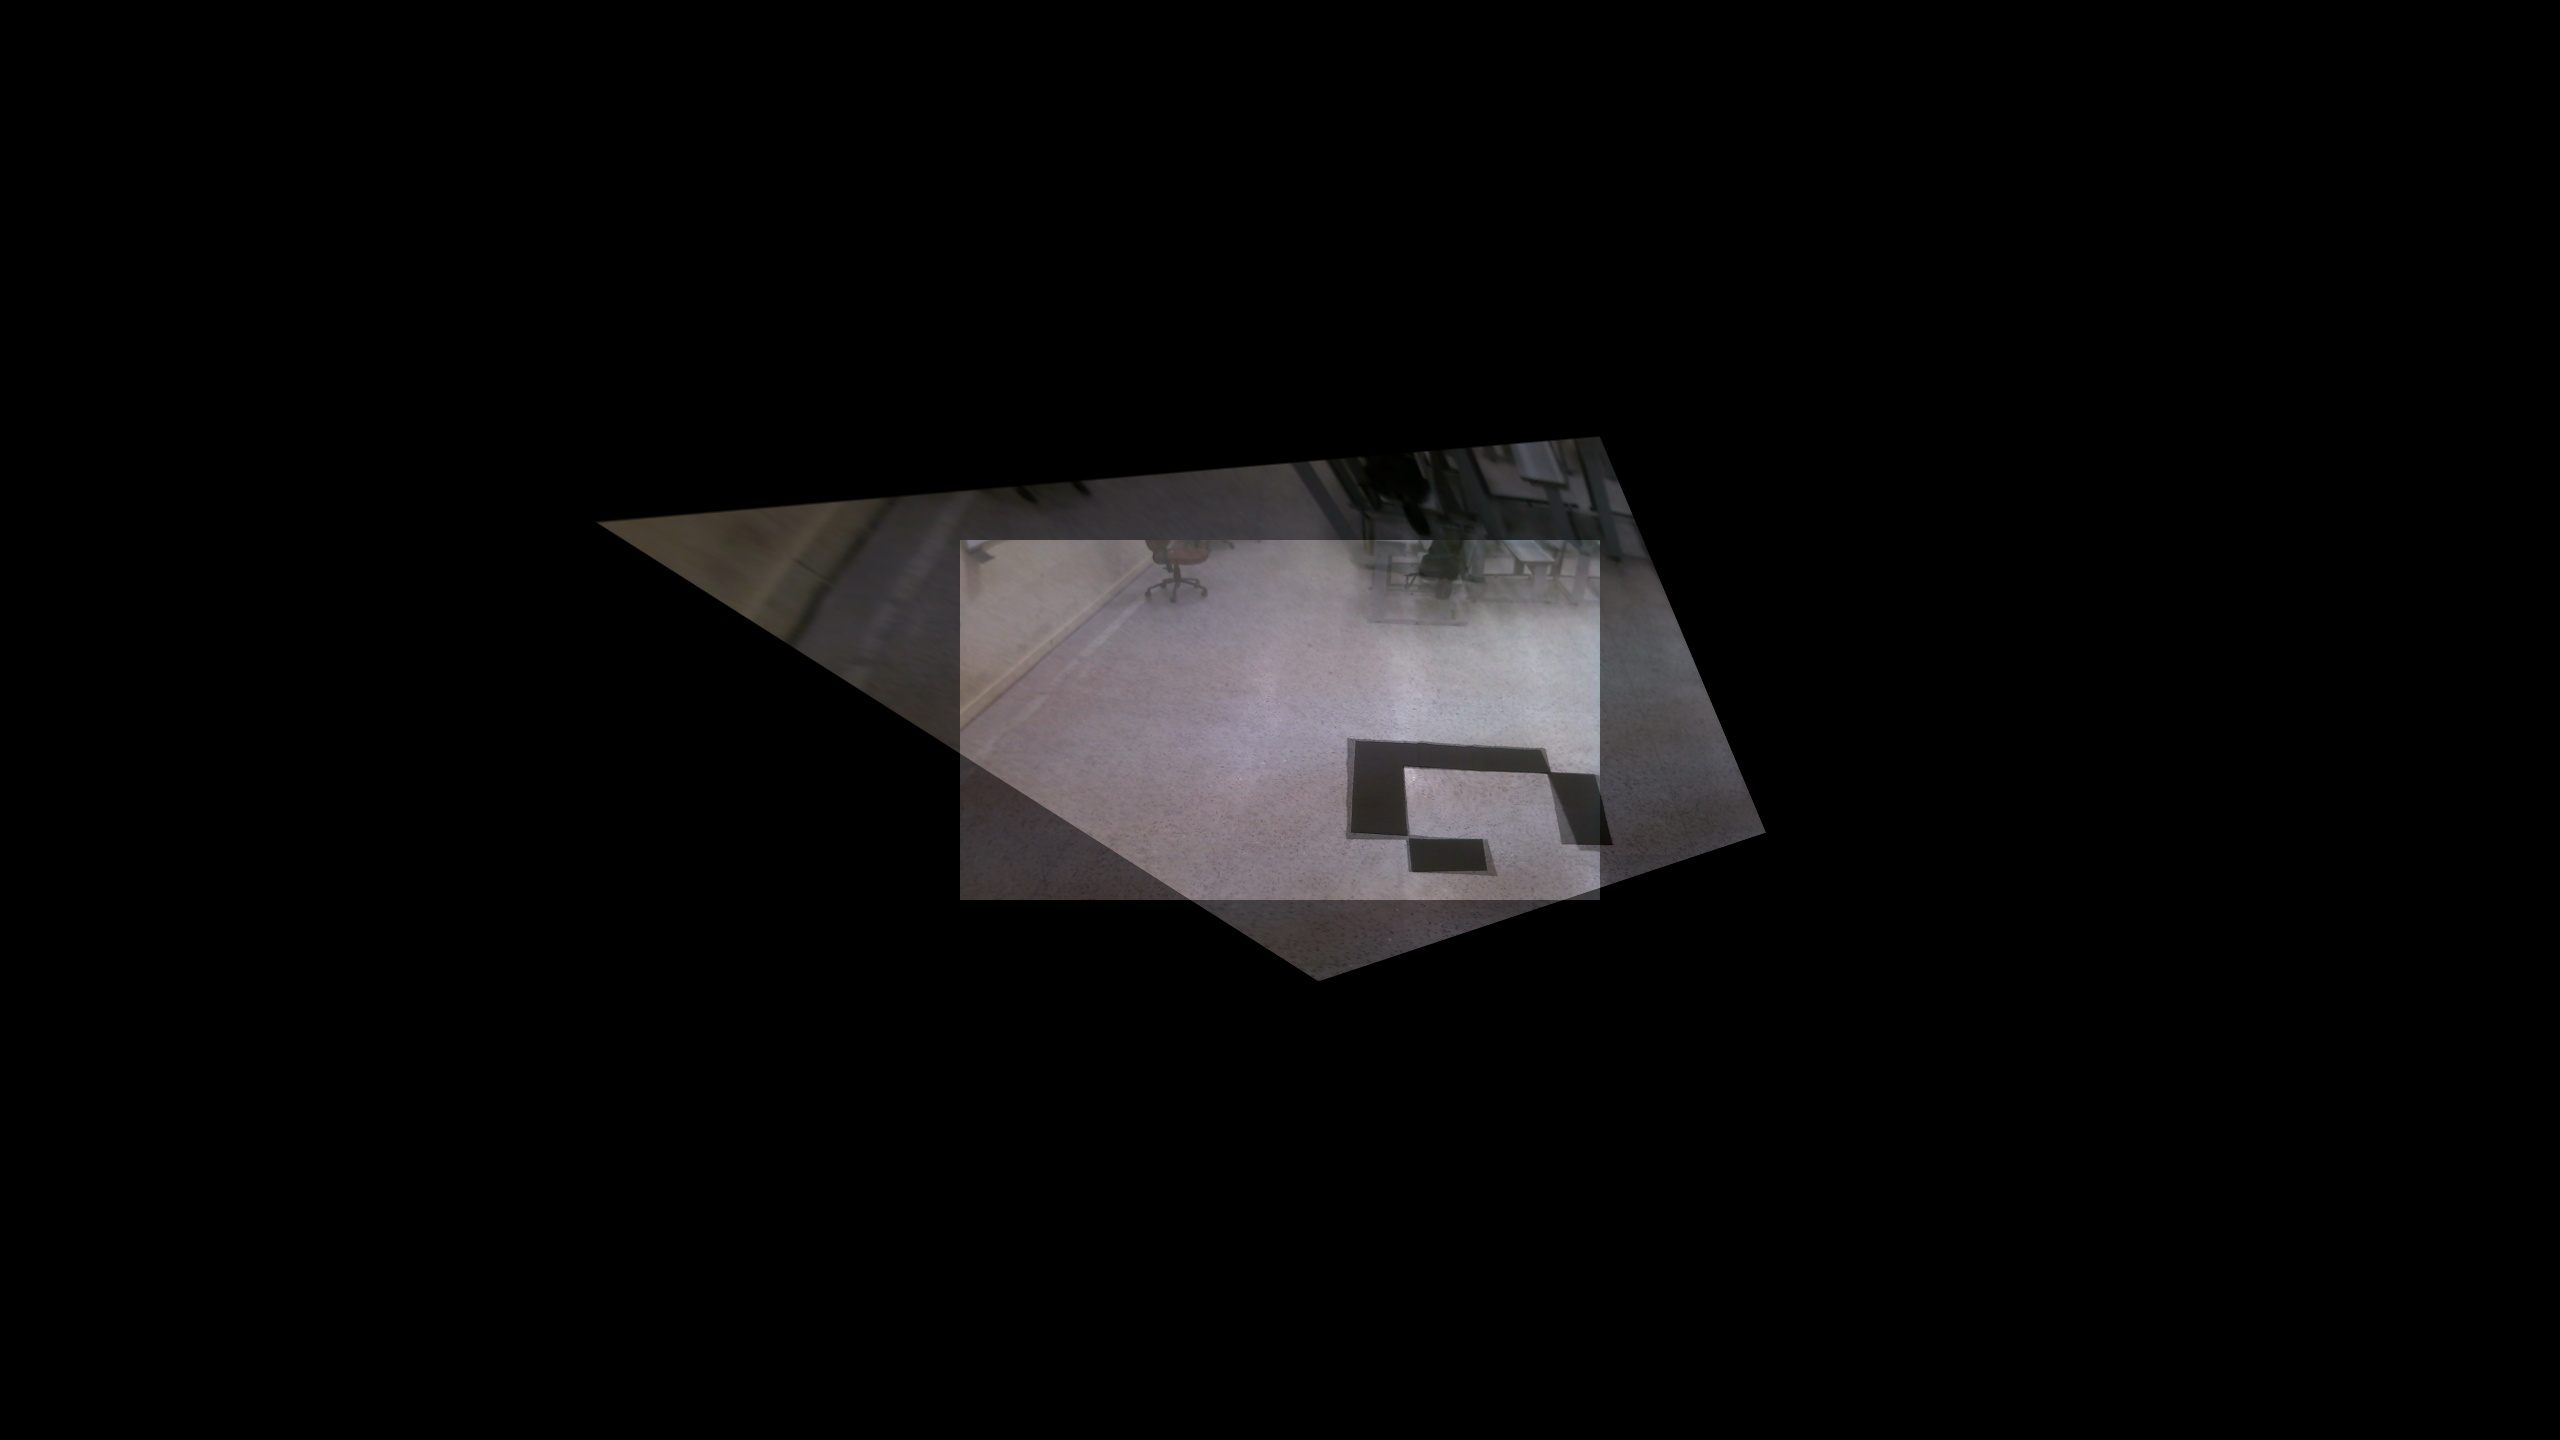
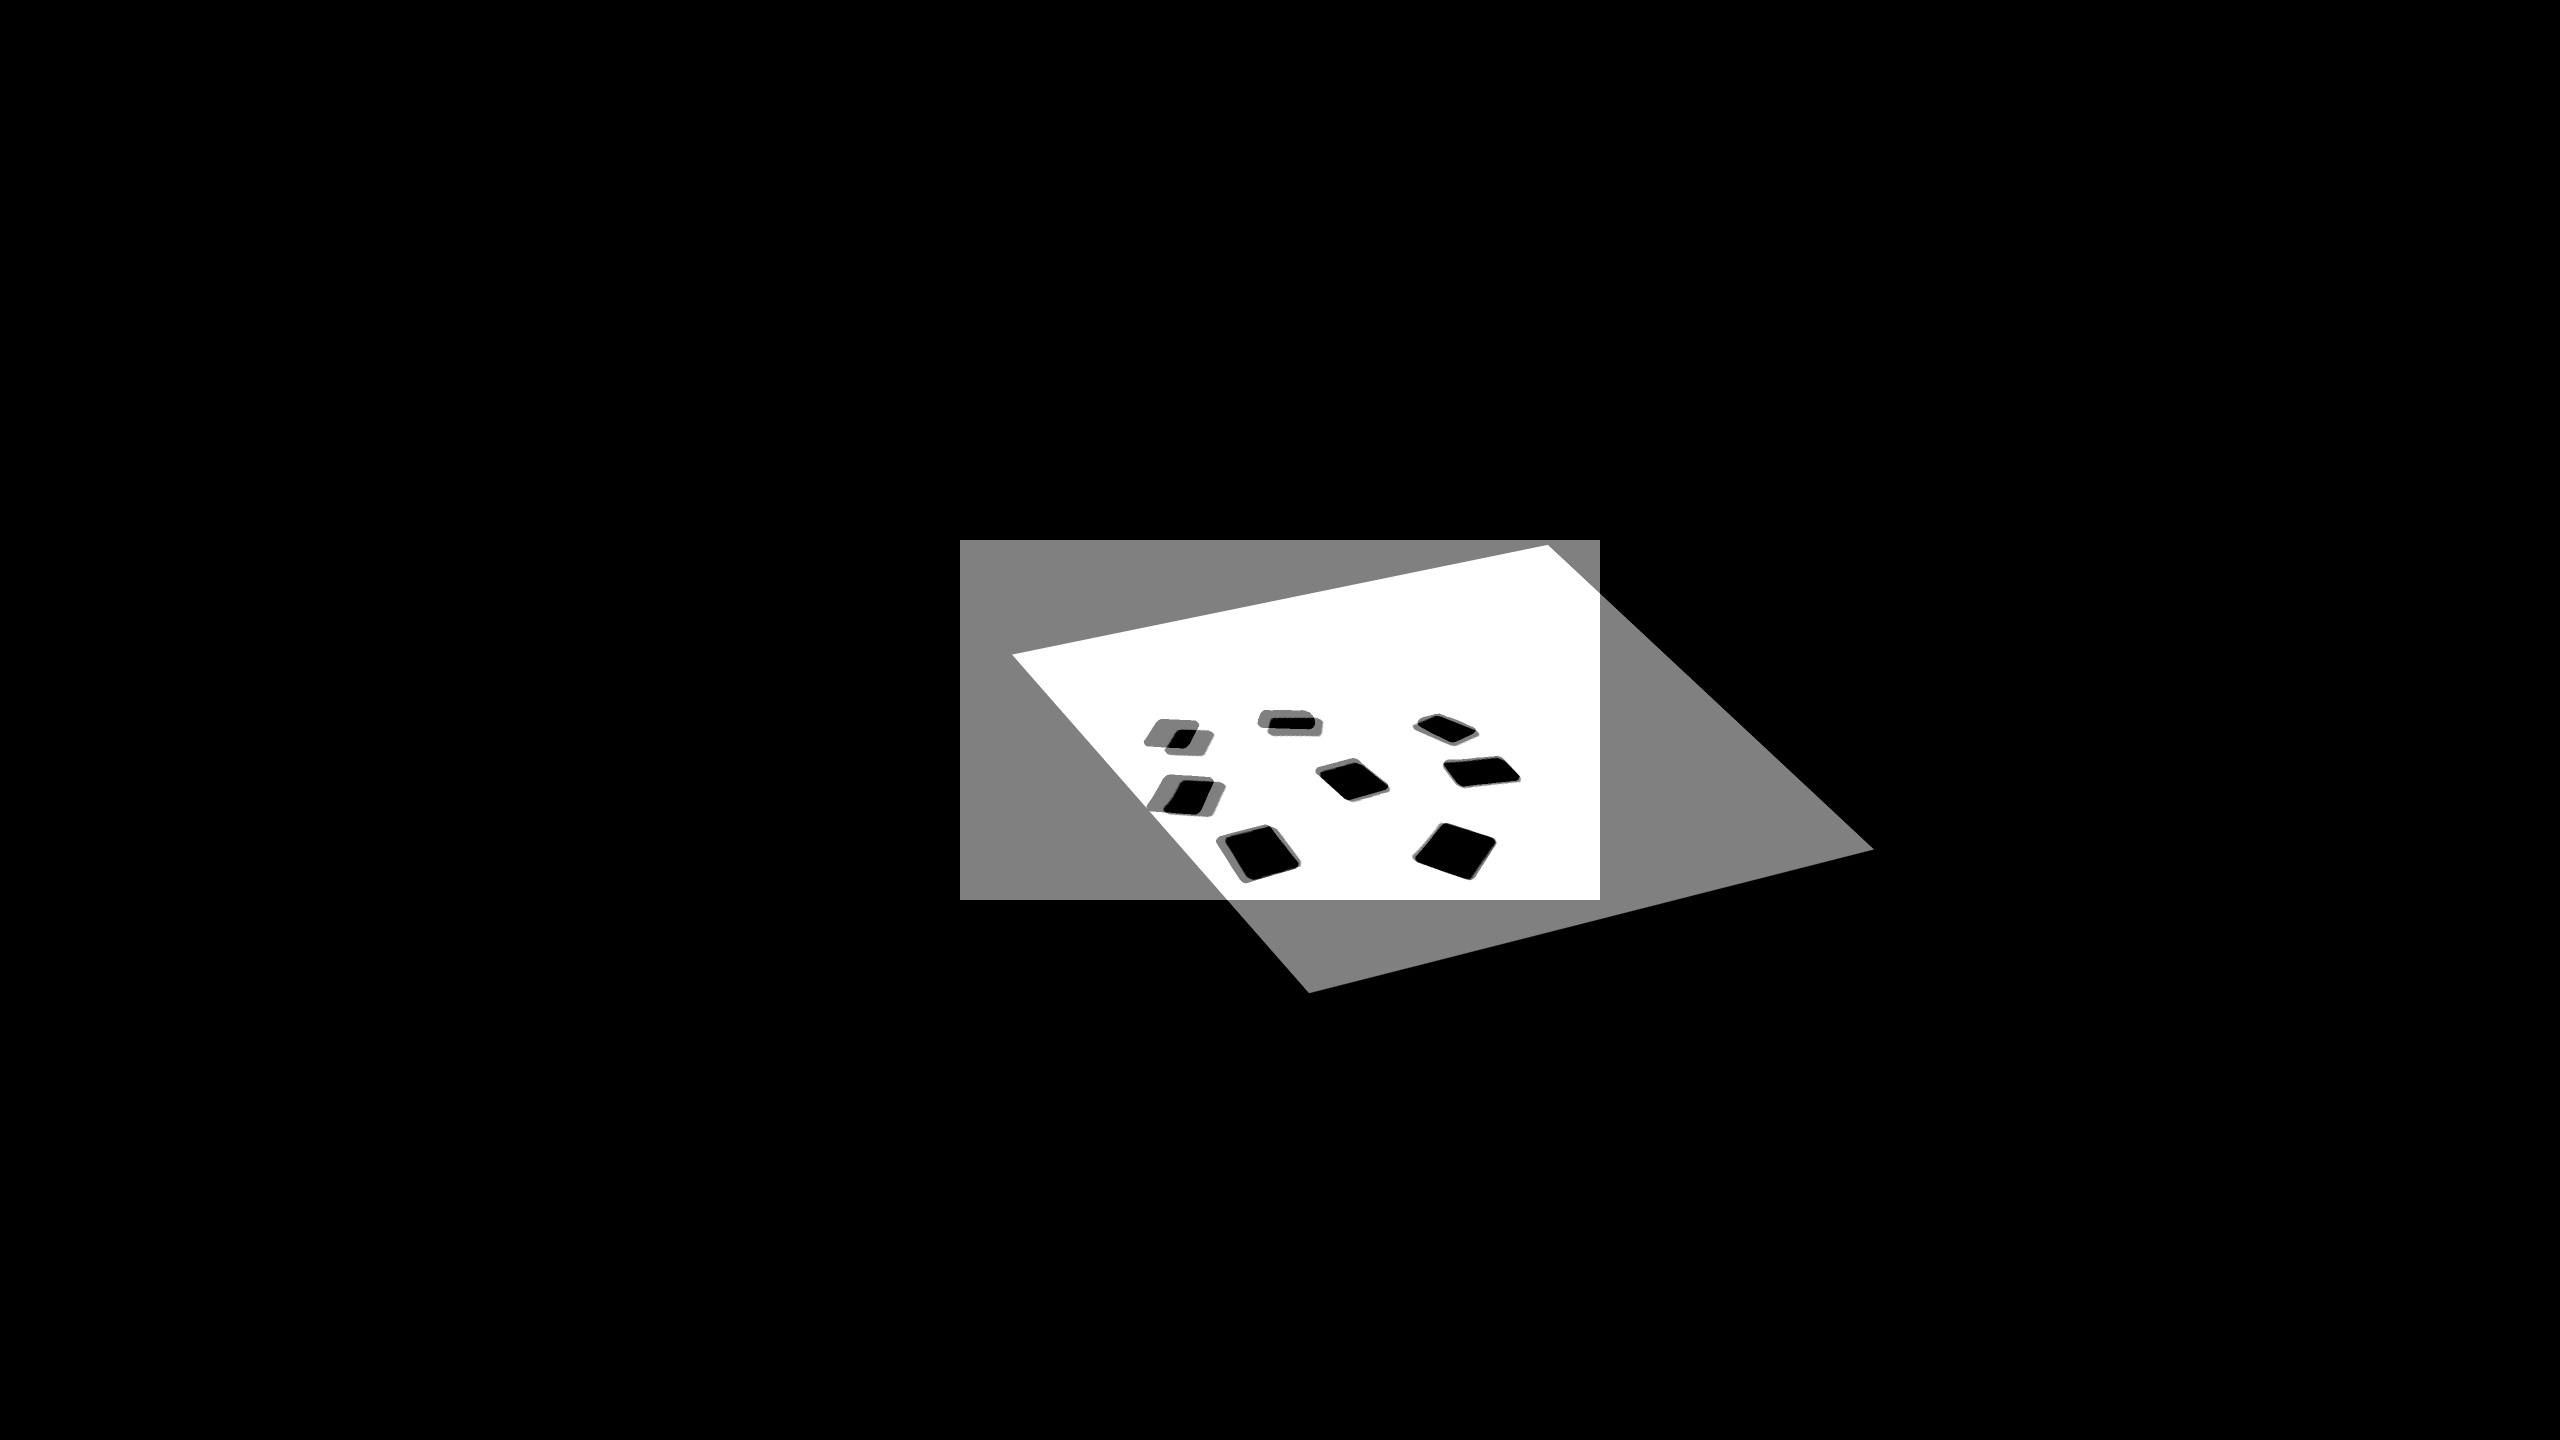
Changes in Mapping and vision

Changed region(s): [[0.2188, 0.2812, 0.75, 0.6875]]

diff --git a/changeSize.py b/changeSize.py
@@ -3,7 +3,6 @@ import numpy as np
 import glob
 import copy
 
-images = images = glob.glob('input/camera1/*.jpg')
 
 '''
 while True:
@@ -23,37 +22,39 @@ cv2.destroyAllWindows();
 
 '''
 
-for im in images:
 
-        im = cv2.imread(im)
-        img = cv2.resize(im, (0,0), fx = 0.5, fy= 0.5)
+im = 'input/camera2/picture065.jpg'
+img = cv2.imread(im)
+#img = cv2.resize(im, (0,0), fx = 0.5, fy= 0.5)
 
-        cimg = cv2.cvtColor(img,cv2.COLOR_BGR2GRAY)
-        cimg = cv2.medianBlur(cimg,17)
-        #img3 = cv2.GaussianBlur(cimg, (5,5), 0)
+cimg = cv2.cvtColor(img,cv2.COLOR_BGR2GRAY)
+cimg = cv2.medianBlur(cimg,17)
+img3 = cv2.GaussianBlur(cimg, (5,5), 0)
 
-        #cv2.imshow('img1', img2)
-        #cv2.imshow('img', img3)
+#cv2.imshow('img1', img2)
+#cv2.imshow('img', img3)
 
-        ret,thresh1 = cv2.threshold(cimg, 70, 255,cv2.THRESH_BINARY)
-        t2 = copy.copy(thresh1)
-        cv2.imshow('thresh', t2)
+ret,thresh1 = cv2.threshold(cimg, 70, 255,cv2.THRESH_BINARY)
+t2 = copy.copy(thresh1)
+cv2.imshow('thresh', t2)
 
-        x, y  = thresh1.shape
-        arr = np.zeros((x, y, 3), np.uint8)
-        final_contours= []
-        image, contours, hierarchy = cv2.findContours(t2,cv2.RETR_TREE,cv2.CHAIN_APPROX_SIMPLE)
-        for i in range(len(contours)):
-            cnt = contours[i]
-            #cv2.drawContours(img, [cnt], -1, [0, 255,255])
+x, y  = thresh1.shape
+arr = np.zeros((x, y, 3), np.uint8)
+final_contours= []
+image, contours, hierarchy = cv2.findContours(t2,cv2.RETR_TREE,cv2.CHAIN_APPROX_SIMPLE)
+for i in range(len(contours)):
+    cnt = contours[i]
+    #cv2.drawContours(img, [cnt], -1, [0, 255,255])
 
-            if cv2.contourArea(cnt) > 800 and cv2.contourArea(cnt) < 20000 :
-                cv2.drawContours(img, [cnt],-1, [0, 255, 255])
-                cv2.fillConvexPoly(arr, cnt, [255, 255, 255])
-                final_contours.append(cnt)
+    if cv2.contourArea(cnt) > 2500 and cv2.contourArea(cnt) < 20000 :
+        cv2.drawContours(img, [cnt],-1, [0, 255, 255])
+        cv2.fillConvexPoly(arr, cnt, [255, 255, 255])
+        final_contours.append(cnt)
 
-        cv2.imshow('image1', img)
-        #cv2.imshow('image2',arr)
-        k = cv2.waitKey(0)
+arr = cv2.bitwise_not(arr)
+cv2.imshow('image1', img)
+cv2.imshow('image2',arr)
+cv2.imwrite('input/camera2/sample1.jpg', arr)
+k = cv2.waitKey(0)
 
-        cv2.destroyAllWindows()
+cv2.destroyAllWindows()

diff --git a/CalibMatrices.py b/CalibMatrices.py
@@ -13,8 +13,8 @@ import numpy as np
 from PIL import Image
 
 def inputImage():           # for taking input
-    first_image = 'input/camera1/picture063.jpg'
-    second_image = 'input/camera2/picture062.jpg'
+    first_image = 'input/camera1/picture064.jpg'
+    second_image = 'input/camera2/picture065.jpg'
     '''
     first_image = 'C:\Users\hp pc\Documents\pythonFiles\open\picture048.jpg'
     second_image = 'C:\Users\hp pc\Documents\pythonFiles\open\picture049.jpg'

diff --git a/LiveRunningOverhead.py b/LiveRunningOverhead.py
@@ -12,8 +12,8 @@ from PIL import Image
 
 def inputImage():           # for taking input
     
-    first_image = 'input/camera1/picture060.jpg'
-    second_image = 'input/camera2/picture061.jpg'
+    first_image = 'input/camera1/sample1.jpg'
+    second_image = 'input/camera2/sample1.jpg'
     '''
     first_image = 'C:\Users\hp pc\Documents\pythonFiles\open\Amol\img1.jpg'
     second_image = 'C:\Users\hp pc\Documents\pythonFiles\open\Amol\img2.jpg'
